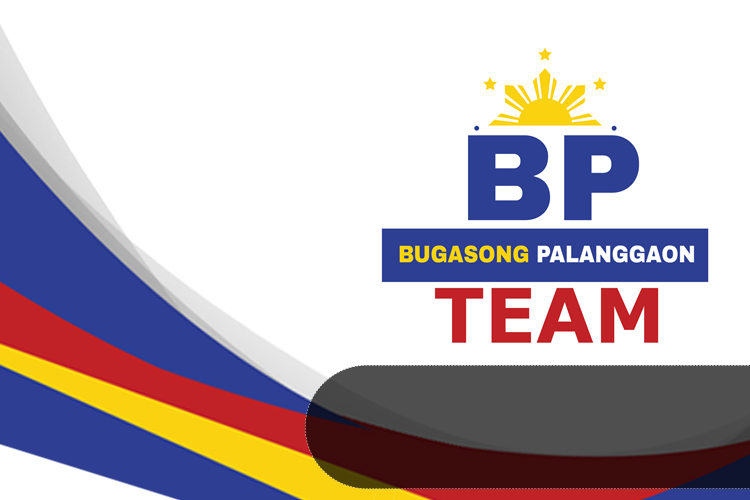
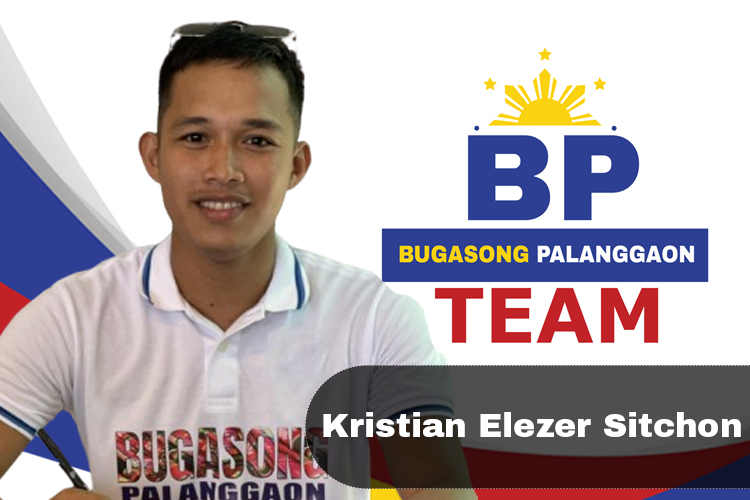
Add files via upload

diff --git a/index.html b/index.html
@@ -33,6 +33,10 @@
 
 		<!-- Custom css --> 
 		<link href="css/custom.css" rel="stylesheet">
+<!-- 
+		<link href="https://cdn.jsdelivr.net/npm/bootstrap@5.3.3/dist/css/bootstrap.min.css" rel="stylesheet" integrity="sha384-QWTKZyjpPEjISv5WaRU9OFeRpok6YctnYmDr5pNlyT2bRjXh0JMhjY6hW+ALEwIH" crossorigin="anonymous">
+<script src="https://cdn.jsdelivr.net/npm/bootstrap@5.3.3/dist/js/bootstrap.bundle.min.js" integrity="sha384-YvpcrYf0tY3lHB60NNkmXc5s9fDVZLESaAA55NDzOxhy9GkcIdslK1eN7N6jIeHz" crossorigin="anonymous"></script> -->
+
 	</head>
 
 	<body class="no-trans">
@@ -95,10 +99,10 @@
 										<div class="collapse navbar-collapse scrollspy smooth-scroll" id="navbar-collapse-1">
 											<ul class="nav navbar-nav navbar-right">
 												<li class="active"><a href="#banner">Home</a></li>
-												<li><a href="#about">About</a></li>
-												<li><a href="#services">News / Updates</a></li>
+												<li><a href="#about">About</a></li>											
 												<li><a href="#portfolio">BP Team</a></li>
-												<li><a href="#clients">Photo Gallery</a></li>
+												<li><a href="#photo">Photo Gallery</a></li>
+												<li><a href="#News">News</a></li>
 												<li><a href="#contact">Contact</a></li>
 											</ul>
 										</div>
@@ -158,7 +162,8 @@
 						<h1 id="about" class="title text-center">"BUGASONG <span>PALANGGAON"</span></h1>
 						<br>
 						<center><h1>Ang Bag-o nga Henerasyon sa Pag-bag-o Kang Aton Banwa.</h1></center>
-						<center><p>We believe that our town deserves new generation of leaders that are committed to bring into reality practical application of those great ideas and insights that were already the bright innovations of the brilliant minds of the past which will surely compliment the sophistication of their present days intellectual counter part, THAT's US.</p></center>
+							<br>
+						<center><h1><p>Bugasong deserves a new generation of leaders who commit to actualizing our forebears' great ideas and insights. We, their present-day intellectual counterparts, shall draw from their wisdom to complement the innovation and sophistication of our solutions to modern issues.</p><h1></center>
 					
 						<br>
 						<!-- <center><h2>We're dedicated to:<h2></center>
@@ -235,12 +240,12 @@
 								<div class="image-box">
 									<div class="overlay-container">
 										<img src="images/portfolio-1.jpg" alt="">
-										<a class="overlay" data-toggle="modal" data-target="#project-1">
+										<!-- <a class="overlay" data-toggle="modal" data-target="#project-1">
 											<i class="fa fa-search-plus"></i>
 											<span>Title</span>
-										</a>
+										</a> -->
 									</div>
-									<a class="btn btn-default btn-block" data-toggle="modal" data-target="#project-1">Title</a>
+									<a class="btn btn-default btn-block" data-toggle="modal" data-target="#project-1">Victor Condez</a>
 								</div>
 								<!-- Modal -->
 								<div class="modal fade" id="project-1" tabindex="-1" role="dialog" aria-labelledby="project-1-label" aria-hidden="true">
@@ -275,12 +280,12 @@
 								<div class="image-box">
 									<div class="overlay-container">
 										<img src="images/portfolio-2.jpg" alt="">
-										<a class="overlay" data-toggle="modal" data-target="#project-2">
+										<!-- <a class="overlay" data-toggle="modal" data-target="#project-2">
 											<i class="fa fa-search-plus"></i>
 											<span>App Development</span>
-										</a>
+										</a> -->
 									</div>
-									<a class="btn btn-default btn-block" data-toggle="modal" data-target="#project-2">Title</a>
+									<a class="btn btn-default btn-block" data-toggle="modal" data-target="#project-2">Bernard Pesayco</a>
 								</div>
 								<!-- Modal -->
 								<div class="modal fade" id="project-2" tabindex="-1" role="dialog" aria-labelledby="project-2-label" aria-hidden="true">
@@ -315,12 +320,12 @@
 								<div class="image-box">
 									<div class="overlay-container">
 										<img src="images/portfolio-3.jpg" alt="">
-										<a class="overlay" data-toggle="modal" data-target="#project-3">
+										<!-- <a class="overlay" data-toggle="modal" data-target="#project-3">
 											<i class="fa fa-search-plus"></i>
 											<span>Web Design</span>
-										</a>
+										</a> -->
 									</div>
-									<a class="btn btn-default btn-block" data-toggle="modal" data-target="#project-3">Title</a>
+									<a class="btn btn-default btn-block" data-toggle="modal" data-target="#project-3">Erlinda Bantolo</a>
 								</div>
 								<!-- Modal -->
 								<div class="modal fade" id="project-3" tabindex="-1" role="dialog" aria-labelledby="project-3-label" aria-hidden="true">
@@ -355,12 +360,12 @@
 								<div class="image-box">
 									<div class="overlay-container">
 										<img src="images/portfolio-4.jpg" alt="">
-										<a class="overlay" data-toggle="modal" data-target="#project-4">
+										<!-- <a class="overlay" data-toggle="modal" data-target="#project-4">
 											<i class="fa fa-search-plus"></i>
 											<span>Site Building</span>
-										</a>
+										</a> -->
 									</div>
-									<a class="btn btn-default btn-block" data-toggle="modal" data-target="#project-4">Title</a>
+									<a class="btn btn-default btn-block" data-toggle="modal" data-target="#project-4">Edsel "Bembol" Capendit</a>
 								</div>
 								<!-- Modal -->
 								<div class="modal fade" id="project-4" tabindex="-1" role="dialog" aria-labelledby="project-4-label" aria-hidden="true">
@@ -395,12 +400,12 @@
 								<div class="image-box">
 									<div class="overlay-container">
 										<img src="images/portfolio-5.jpg" alt="">
-										<a class="overlay" data-toggle="modal" data-target="#project-5">
+										<!-- <a class="overlay" data-toggle="modal" data-target="#project-5">
 											<i class="fa fa-search-plus"></i>
 											<span>App Development</span>
-										</a>
+										</a> -->
 									</div>
-									<a class="btn btn-default btn-block" data-toggle="modal" data-target="#project-5">Title</a>
+									<a class="btn btn-default btn-block" data-toggle="modal" data-target="#project-5">Atty. Ryan Mantac</a>
 								</div>
 								<!-- Modal -->
 								<div class="modal fade" id="project-5" tabindex="-1" role="dialog" aria-labelledby="project-5-label" aria-hidden="true">
@@ -435,12 +440,12 @@
 								<div class="image-box">
 									<div class="overlay-container">
 										<img src="images/portfolio-6.jpg" alt="">
-										<a class="overlay" data-toggle="modal" data-target="#project-6">
+										<!-- <a class="overlay" data-toggle="modal" data-target="#project-6">
 											<i class="fa fa-search-plus"></i>
 											<span>Web Design</span>
-										</a>
+										</a> -->
 									</div>
-									<a class="btn btn-default btn-block" data-toggle="modal" data-target="#project-6">Title</a>
+									<a class="btn btn-default btn-block" data-toggle="modal" data-target="#project-6">Kristian Elezer Sitchon</a>
 								</div>
 								<!-- Modal -->
 								<div class="modal fade" id="project-6" tabindex="-1" role="dialog" aria-labelledby="project-6-label" aria-hidden="true">
@@ -475,12 +480,12 @@
 								<div class="image-box">
 									<div class="overlay-container">
 										<img src="images/portfolio-7.jpg" alt="">
-										<a class="overlay" data-toggle="modal" data-target="#project-7">
+										<!-- <a class="overlay" data-toggle="modal" data-target="#project-7">
 											<i class="fa fa-search-plus"></i>
 											<span>Site Building</span>
-										</a>
+										</a> -->
 									</div>
-									<a class="btn btn-default btn-block" data-toggle="modal" data-target="#project-7">Title</a>
+									<a class="btn btn-default btn-block" data-toggle="modal" data-target="#project-7">Col. Greg "Boyet" Togonon</a>
 								</div>
 								<!-- Modal -->
 								<div class="modal fade" id="project-7" tabindex="-1" role="dialog" aria-labelledby="project-7-label" aria-hidden="true">
@@ -515,12 +520,12 @@
 								<div class="image-box">
 									<div class="overlay-container">
 										<img src="images/portfolio-8.jpg" alt="">
-										<a class="overlay" data-toggle="modal" data-target="#project-8">
+										<!-- <a class="overlay" data-toggle="modal" data-target="#project-8">
 											<i class="fa fa-search-plus"></i>
 											<span>Web Design</span>
-										</a>
+										</a> -->
 									</div>
-									<a class="btn btn-default btn-block" data-toggle="modal" data-target="#project-8">Title</a>
+									<a class="btn btn-default btn-block" data-toggle="modal" data-target="#project-8">Christopher James "CJ" dela Cruz</a>
 								</div>
 								<!-- Modal -->
 								<div class="modal fade" id="project-8" tabindex="-1" role="dialog" aria-labelledby="project-8-label" aria-hidden="true">
@@ -555,12 +560,12 @@
 								<div class="image-box">
 									<div class="overlay-container">
 										<img src="images/portfolio-9.jpg" alt="">
-										<a class="overlay" data-toggle="modal" data-target="#project-9">
+									<!-- 	<a class="overlay" data-toggle="modal" data-target="#project-9">
 											<i class="fa fa-search-plus"></i>
 											<span>Web Design</span>
-										</a>
+										</a> -->
 									</div>
-									<a class="btn btn-default btn-block" data-toggle="modal" data-target="#project-9">Title</a>
+									<a class="btn btn-default btn-block" data-toggle="modal" data-target="#project-9">Christie Barte</a>
 								</div>
 								<!-- Modal -->
 								<div class="modal fade" id="project-9" tabindex="-1" role="dialog" aria-labelledby="project-9-label" aria-hidden="true">
@@ -595,12 +600,12 @@
 								<div class="image-box">
 									<div class="overlay-container">
 										<img src="images/portfolio-10.jpg" alt="">
-										<a class="overlay" data-toggle="modal" data-target="#project-10">
+										<!-- <a class="overlay" data-toggle="modal" data-target="#project-10">
 											<i class="fa fa-search-plus"></i>
 											<span>Site Building</span>
-										</a>
+										</a> -->
 									</div>
-									<a class="btn btn-default btn-block" data-toggle="modal" data-target="#project-10">Title</a>
+									<a class="btn btn-default btn-block" data-toggle="modal" data-target="#project-10">.</a>
 								</div>
 								<!-- Modal -->
 								<div class="modal fade" id="project-10" tabindex="-1" role="dialog" aria-labelledby="project-10-label" aria-hidden="true">
@@ -635,12 +640,12 @@
 								<div class="image-box">
 									<div class="overlay-container">
 										<img src="images/portfolio-11.jpg" alt="">
-										<a class="overlay" data-toggle="modal" data-target="#project-11">
+										<!-- <a class="overlay" data-toggle="modal" data-target="#project-11">
 											<i class="fa fa-search-plus"></i>
 											<span>Web Design</span>
-										</a>
+										</a> -->
 									</div>
-									<a class="btn btn-default btn-block" data-toggle="modal" data-target="#project-11">Title</a>
+									<a class="btn btn-default btn-block" data-toggle="modal" data-target="#project-11">.</a>
 								</div>
 								<!-- Modal -->
 								<div class="modal fade" id="project-11" tabindex="-1" role="dialog" aria-labelledby="project-11-label" aria-hidden="true">
@@ -675,12 +680,12 @@
 								<div class="image-box">
 									<div class="overlay-container">
 										<img src="images/portfolio-12.jpg" alt="">
-										<a class="overlay" data-toggle="modal" data-target="#project-12">
+										<!-- <a class="overlay" data-toggle="modal" data-target="#project-12">
 											<i class="fa fa-search-plus"></i>
 											<span>App Development</span>
-										</a>
+										</a> -->
 									</div>
-									<a class="btn btn-default btn-block" data-toggle="modal" data-target="#project-12">Title</a>
+									<a class="btn btn-default btn-block" data-toggle="modal" data-target="#project-12">.</a>
 								</div>
 								<!-- Modal -->
 								<div class="modal fade" id="project-12" tabindex="-1" role="dialog" aria-labelledby="project-12-label" aria-hidden="true">
@@ -718,6 +723,78 @@
 				</div>
 			</div>
 		</div>
+
+
+
+
+		<!-- section start -->
+		<!-- ================ -->
+		<div class="default-bg space blue">
+			<div class="container">
+				<div class="row">
+					<div class="col-md-8 col-md-offset-2">
+						<h1 class="text-center" id="news">News / Updates</h1>
+
+							
+					</div>
+				</div>
+			</div>
+		</div>
+		<!-- section end -->
+
+
+<br>
+<br>
+<br>
+<br>
+<br>
+<br>
+<br>
+<br>
+<br>
+<br>
+<br>
+<br>
+
+
+
+
+
+
+
+		<!-- section start -->
+		<!-- ================ -->
+		<div class="default-bg space blue">
+			<div class="container">
+				<div class="row">
+					<div class="col-md-8 col-md-offset-2">
+						<h1 class="text-center" id="photo">Photo Gallery</h1>
+							
+					</div>
+				</div>
+			</div>
+		</div>
+		<!-- section end -->
+
+
+<br>
+<br>
+<br>
+<br>
+<br>
+<br>
+<br>
+<br>
+<br>
+<br>
+<br>
+<br>
+
+
+
+
+
+
 		<!-- section end -->
 
 		<!-- section start -->
@@ -843,7 +920,9 @@
 		<!-- Custom Scripts -->
 		<script type="text/javascript" src="js/custom.js"></script>
 
-
-
+<!-- 
+		<script src="https://cdn.jsdelivr.net/npm/@popperjs/core@2.11.8/dist/umd/popper.min.js" integrity="sha384-I7E8VVD/ismYTF4hNIPjVp/Zjvgyol6VFvRkX/vR+Vc4jQkC+hVqc2pM8ODewa9r" crossorigin="anonymous"></script>
+		<script src="https://cdn.jsdelivr.net/npm/bootstrap@5.3.3/dist/js/bootstrap.min.js" integrity="sha384-0pUGZvbkm6XF6gxjEnlmuGrJXVbNuzT9qBBavbLwCsOGabYfZo0T0to5eqruptLy" crossorigin="anonymous"></script>
+ -->
 	</body>
 </html>
